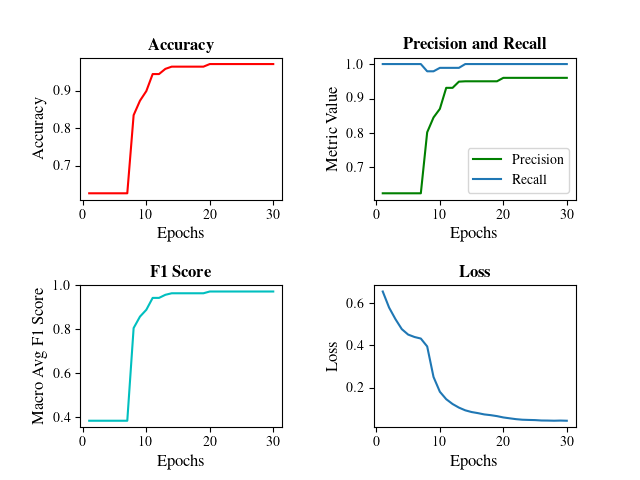
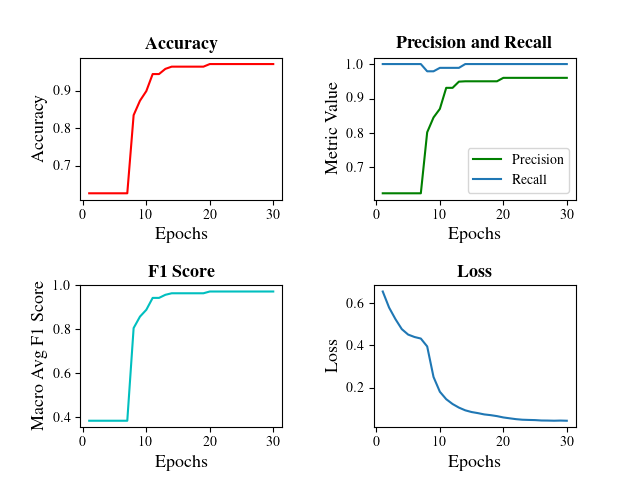
fix k error temp

diff --git a/Code/src/visualise_finetuning.py b/Code/src/visualise_finetuning.py
@@ -7,7 +7,7 @@ import torch
 from matplotlib import rc
 
 
-axis_font_size=12
+axis_font_size=13
 
 base_path = Path(__file__).parent
 checkpoint_dir = (base_path / '../checkpoints/finetune').resolve()
@@ -23,12 +23,12 @@ def draw_graph(graph_title, data, data_label, epochs, checkpoint_name, y_label=N
     if more_data is not None:
         plt.plot(epochs, more_data, label=more_data_label)
 
-    plt.title(r"\textbf{" + graph_title + "}")
-    plt.xlabel("Epochs")
+    plt.title(r"\textbf{" + graph_title + "}", fontsize=axis_font_size)
+    plt.xlabel("Epochs", fontsize=axis_font_size)
     y_label = y_label if y_label is not None else data_label
     graph_save_name = checkpoint_name + "_" + y_label.lower().replace(" ", "_") + "_epochs.png"
 
-    plt.ylabel(y_label)
+    plt.ylabel(y_label, fontsize=axis_font_size)
 
     if more_data is not None:
         plt.legend()
@@ -98,7 +98,7 @@ def create_subplots(checkpoint_name, metrics, losses):
     for item in ([plt.gca().xaxis.label, plt.gca().yaxis.label]): item.set_fontsize(axis_font_size)
 
     plt.subplots_adjust(hspace=0.6, wspace=0.45)
-    plt.savefig(graphs_path + "/" + checkpoint_name + "_finetuning_subplot.png")  # this is saving them weird due to subplots
+    plt.savefig(str(graphs_path) + "/" + checkpoint_name + "_finetuning_subplot.png")  # this is saving them weird due to subplots
     plt.show()
     print("\nGraph creation complete.\n")
 

diff --git a/Code/src/fine_tuning.py b/Code/src/fine_tuning.py
@@ -74,7 +74,7 @@ def condense_statistics(metrics):
     return all_metrics
 
 
-def evaluate_during_training(qa_model, dataset, eval_dataloader_dict, all_dataset_metrics):
+def evaluate_during_training(qa_model, dataset, eval_dataloader_dict, all_dataset_metrics, k=5):
 
     metrics_for_plotting = {}
 
